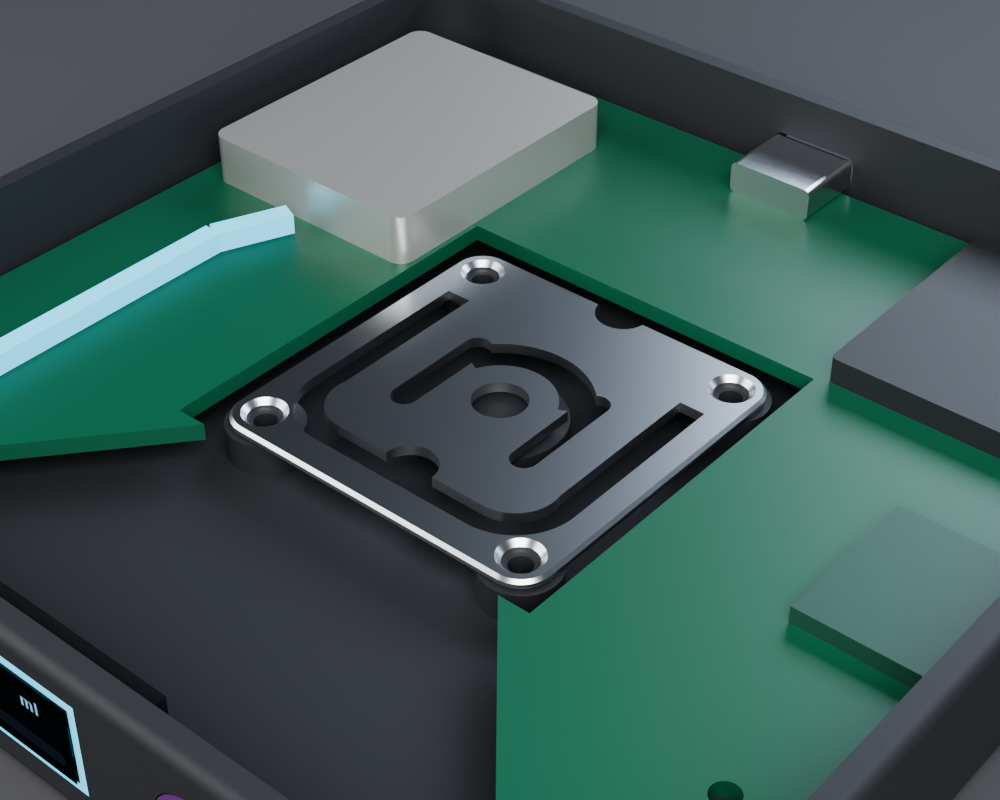
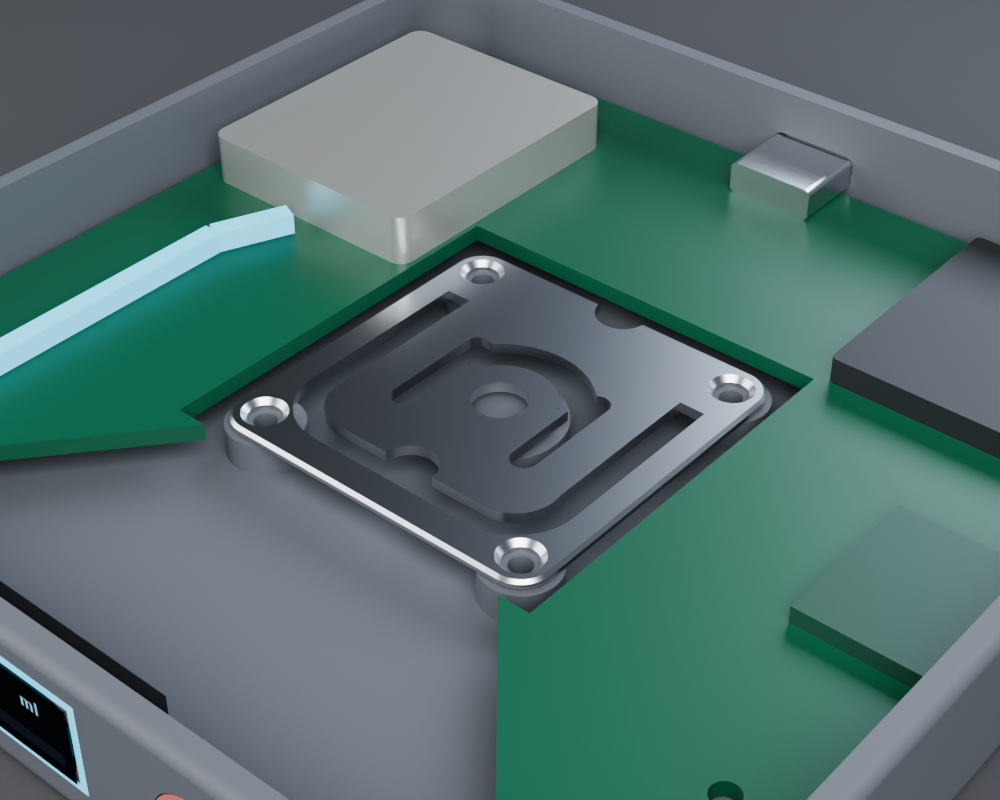
feat(p3): CMF spec + 4 colorway renders (Lumen Violet/Moss/Sand/Graphite) + product narrative

diff --git a/render/cmf/make_variants.py b/render/cmf/make_variants.py
@@ -1,0 +1,41 @@
+#!/usr/bin/env python3
+"""Render the 4 CMF colorways with the existing square_b scene."""
+import json
+import os
+import shutil
+import subprocess
+
+ROOT = "/data/Documents/projects/SmartCoaster"
+BASE = f"{ROOT}/render/square_b"
+CFG = f"{BASE}/config.json"
+OUT = f"{ROOT}/render/cmf"
+BACK = f"{OUT}/config_base.json"
+BLENDER = "/data/Documents/tools/blender/blender"
+
+VARIANTS = {
+    "lumen_violet": {"plate": [0.42, 0.25, 0.63], "shell": [0.16, 0.18, 0.21],
+                     "button": [0.42, 0.25, 0.63]},
+    "moss":         {"plate": [0.31, 0.42, 0.29], "shell": [0.17, 0.19, 0.17],
+                     "button": [0.31, 0.42, 0.29]},
+    "sand":         {"plate": [0.79, 0.72, 0.60], "shell": [0.23, 0.21, 0.19],
+                     "button": [0.79, 0.72, 0.60]},
+    "graphite":     {"plate": [0.23, 0.24, 0.26], "shell": [0.11, 0.12, 0.14],
+                     "button": [0.58, 0.16, 0.15]},
+}
+
+os.makedirs(OUT, exist_ok=True)
+shutil.copy(CFG, BACK)
+for name, cols in VARIANTS.items():
+    cfg = json.load(open(BACK))
+    for k, v in cols.items():
+        cfg["colors"][k]["base"] = v
+    json.dump(cfg, open(CFG, "w"), indent=2)
+    r = subprocess.run([BLENDER, "-b", "--python", f"{BASE}/build_scene.py"],
+                       capture_output=True, text=True)
+    if r.returncode != 0:
+        print("FAIL", name, r.stderr[-400:])
+        continue
+    shutil.copy(f"{BASE}/renders/hero.png", f"{OUT}/{name}.png")
+    print("OK", name)
+shutil.copy(BACK, CFG)
+print("DONE variants")

diff --git a/docs/10_CMF_and_Packaging.md b/docs/10_CMF_and_Packaging.md
@@ -1,0 +1,52 @@
+# CMF 与包装（P3）
+
+## 1. 设计语言
+
+**Quiet tech**：哑光、圆角、无 logo；信息只通过“一条前脸光 veins + 窗周光环”出现，其余时间接近消失。正面 26×7 屏只在按键/放杯/提醒时亮，8 s 息屏。
+
+## 2. 主色：Lumen Violet
+
+| 件 | 材料 | 颜色 | 表面 |
+|---|---|---|---|
+| 顶板 | PC/ABS + 30% PCR | Pantone 2665C | 哑光 MT-11010，Ra 1.6 |
+| 壳体 | PC/ABS | Pantone 426C | 细磨砂，Ra 2.4 |
+| 按键 | PC | 与顶板同色 | 亮面（只这一处高光） |
+| 光导 | PMMA clear | 无色 | 端面磨砂，侧面抛光 |
+| 窗玻璃 | PMMA 2H | 烟灰 | 亮面 |
+| 硅胶垫 | 硅胶 | 半透明 | 哑光 |
+
+- 顶板与壳体同色系不同明度，形成“悬浮”感；按键是唯一亮面，提示“可按”。
+- 光导从前缘灯线延伸到窗周，发光时是 2700–4000 K 可调（P3 预留双灯方案）。
+
+## 3. 配色变体
+
+| 变体 | 顶板 | 壳体 | 按键 |
+|---|---|---|---|
+| Lumen Violet | 紫 #6B40A0 | 炭灰 #2A2E35 | 同顶板 |
+| Moss | 苔绿 #4F6B4A | 深绿灰 #2B302B | 同顶板 |
+| Sand | 沙色 #C9B79A | 暖灰 #3A3530 | 同顶板 |
+| Graphite | 石墨 #3A3D42 | 近黑 #1E2024 | 一点红 #942826 |
+
+渲染见 `render/cmf/*.png`。
+
+## 4. 可持续
+
+- 外壳 30% PCR；包装 FSC 纸浆模塑；无胶卡扣，可拆；电池可换；无云依赖，数据留在本地/手机。
+- 目标：可维修（4 颗 M2 螺丝 + 卡扣），可回收（单一材质优先）。
+
+## 5. 包装（P3，下一轮出结构）
+
+- 120×120×36 mm 天地盖；纸浆模塑内衬（杯垫凹槽 + 光导保护）；一条 FSC 纸腰封；一张说明卡（中英）。
+- 开箱顺序：腰封 → 上盖 → 杯垫 + 说明卡 → 下层（USB-C 线/备用硅胶垫）。
+- 无塑料泡棉、无胶带。
+
+## 6. 可靠性与表面
+
+- 抗指纹、UV 稳定；500 g 橡皮耐磨 100 次；酒精/咖啡/茶 24 h 擦拭无变化。
+- 顶板与壳体接缝 ≤0.15 mm；光导与窗框齐平 ±0.05 mm。
+
+## 7. 光（P3）
+
+- 当前：单 RGB + 57 mm PMMA 光导（前缘灯线 + 窗周 halo）。
+- P3：双 RGB（左右各一）+ 匀光腔，halo 均匀性 max/min < 1.3；成本增加 ~¥1.2。
+- 提示语义：喝水 = 青蓝呼吸；目标达成 = 金色 3 s；低电量 = 琥珀慢闪。

diff --git a/docs/11_Product_Narrative.md b/docs/11_Product_Narrative.md
@@ -1,0 +1,52 @@
+# 产品叙事（Red Dot 评审用）
+
+## 一句话
+
+**一杯水，一块杯垫，一个不需要你盯着手机的理由。**
+
+## 问题
+
+- 提醒喝水的手环/手机通知被忽略，因为它们在“另一个屏幕”上。
+- 杯子本身不知道你喝了多少；量杯/APP 记录都要求额外动作。
+- 桌面上的杯垫是唯一“一直在场”的位置，却只承担隔热。
+
+## 洞察
+
+喝水是一个**放下杯子**的动作。把称重放进杯垫，喝水这件事就自动被记录，不需要打开任何东西。
+
+## 设计
+
+- **重量即输入**：放杯 → 识别杯重 → 拿起来喝 → 放回 → 差值即这一口；续水不计入。
+- **三种状态**：空杯/喝水/秤；单击看重量，双击手动切模式，长按 2 s 设杯，长按 5 s 配对。
+- **光而不是声音**：该喝水时前脸光 veins 呼吸，不打断会议；目标达成金色 3 s。
+- **屏只在你需要时亮**：26×7 窗口，8 s 息屏；中文“今日 1250 / 该喝水了 / 刚喝 50”。
+- **7 天续航**：PM light sleep + BLE 占空广播；USB-C 充电。
+
+## 体验
+
+1. 第一次：放上空杯 → 长按 2 s 记住杯重 → 放回杯子。
+2. 每天：喝水自动累计；该喝水时光呼吸；单击看今日进度。
+3. 同步：长按 5 s → 手机 App 在 120 s 窗口内连接 → 读今日/设目标/设时间；断开即关广播。
+
+## 可持续
+
+- 30% PCR 外壳、FSC 纸浆模塑、无胶卡扣、可换电池、可维修（4 颗 M2）。
+- 无云：数据只在本地与手机之间。
+
+## 规格
+
+| 项 | 值 |
+|---|---|
+| 尺寸/重量 | 100×100×18 mm / ~155 g |
+| 量程 | 5 kg（HY928D + HX711，24 bit） |
+| 目标 | 2200 ml/日（App 可改） |
+| 显示 | 0.91" 128×32 OLED，26×7 窗口 |
+| 光 | RGB + PMMA 光导（前缘灯线 + 窗周 halo） |
+| 连接 | BLE 5（NimBLE，0xFF00 服务） |
+| 电池 | 500 mAh，7 天级 |
+| 充电 | USB-C |
+| 材料 | PC/ABS + PMMA + 硅胶 |
+
+## 评审关键词
+
+**Invisible input（无感输入）· Ambient feedback（环境反馈）· Repairable（可维修）· Local-first（本地优先）**

diff --git a/docs/07_Product_Roadmap.md b/docs/07_Product_Roadmap.md
@@ -70,3 +70,10 @@
 - 尝试 2：给 D2 加本地驱动 Q4–Q6（schematic ERC 0、网表 PASS，69 器件/46 网络）→ 右侧臂放不下 3 颗 SOT-23（越界/与 J5/R25 冲突），PCB 未成，回退。
 - 结论：**12 unconnected 是 C 环拓扑问题**——D2 在右前，阴极网必须从左下的 Q1–Q3 绕过整个 C 环；2 层/4 层都在最后一跳失败。
 - 下一轮方案：**把 D1/D2 都放到同一侧臂**（前左），共用 Q1–Q3 本地驱动，光导把光送到屏窗；再重布线。必要时 Q4–Q6 本地驱动只保留一组。
+
+## P3 进展（2026-11-04）
+
+- CMF：`docs/10_CMF_and_Packaging.md`（Lumen Violet 主色 + Moss/Sand/Graphite 变体）；4 个变体渲染 `render/cmf/`。
+- 叙事：`docs/11_Product_Narrative.md`（一句话/问题/洞察/设计/体验/可持续/规格）。
+- 包装：120×120×36 天地盖 + 纸浆模塑内衬（结构下一轮）。
+- 光：单灯 + 57 mm 光导；P3 双灯/匀光腔预留。

diff --git a/README.md b/README.md
@@ -8,6 +8,7 @@
 
 | 层 | 状态 |
 |---|---|
+| CMF | 4 个配色变体（Lumen Violet / Moss / Sand / Graphite）+ `docs/10_CMF_and_Packaging.md` |
 | 机械 | LUMEN 圆形 **21/21**；方形 B **21/21**（B 前脸 + PMMA 光导：窗周 halo + 前缘灯线 + 导光条） |
 | FEA | HY928D 5 kg 中心 **0.3435 mm**（k≈142.8 N/mm）、支反力 100%、+y 两颗 99.4%、非奇异热点 468 MPa |
 | 电路 | ngspice：3.956 mV → 0.506 V（×128）、RC 1.65 kHz；HX711 3.3 V 满量程 ±12.9 mV（30.7%） |
